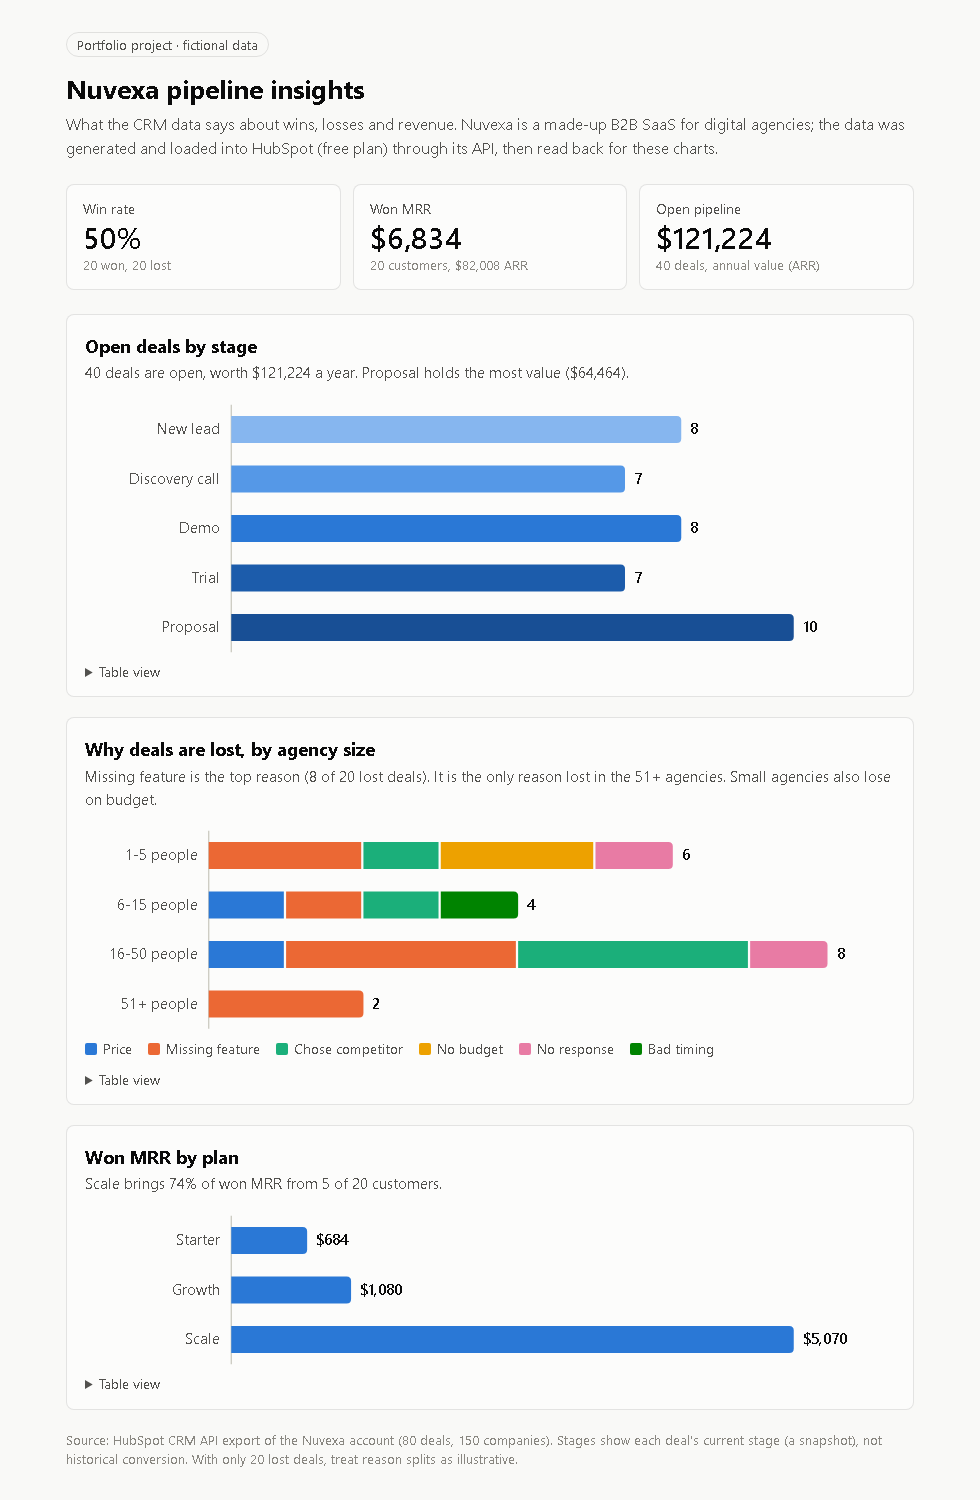
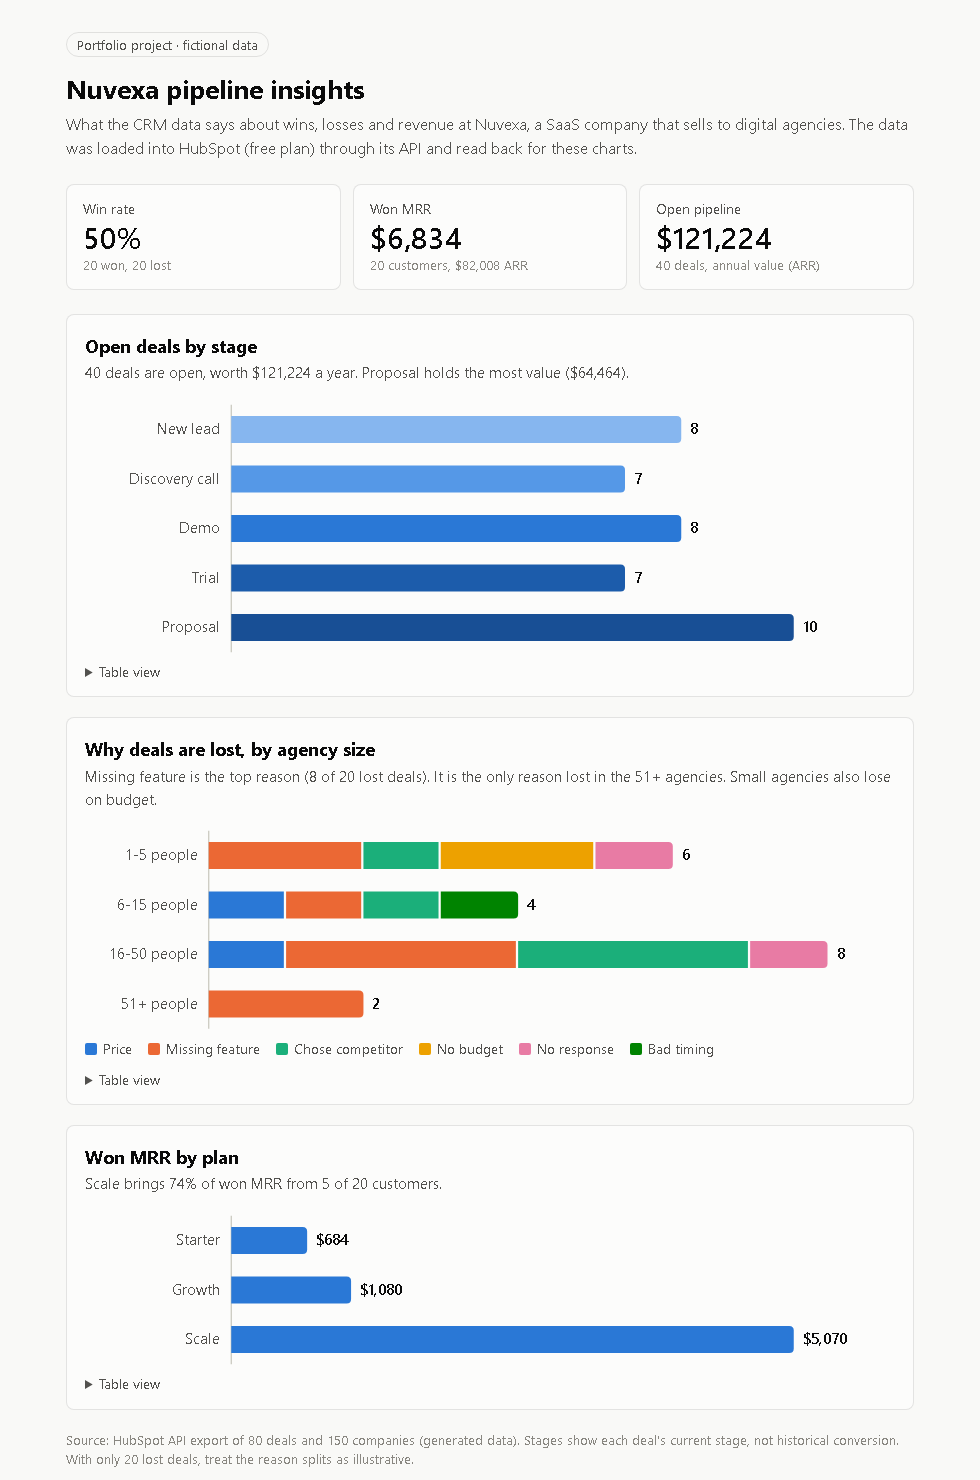
Add files via upload

diff --git a/dashboard/nuvexa-pipeline-insights.html b/dashboard/nuvexa-pipeline-insights.html
@@ -69,7 +69,7 @@
 <div class="wrap">
   <span class="tag">Portfolio project &middot; fictional data</span>
   <h1>Nuvexa pipeline insights</h1>
-  <p class="sub">What the CRM data says about wins, losses and revenue. Nuvexa is a made-up B2B SaaS for digital agencies; the data was generated and loaded into HubSpot (free plan) through its API, then read back for these charts.</p>
+  <p class="sub">What the CRM data says about wins, losses and revenue at Nuvexa, a SaaS company that sells to digital agencies. The data was loaded into HubSpot (free plan) through its API and read back for these charts.</p>
 
   <div class="tiles" id="tiles"></div>
 
@@ -95,7 +95,7 @@
     <details><summary>Table view</summary><div id="tb3"></div></details>
   </section>
 
-  <footer>Source: HubSpot CRM API export of the Nuvexa account (80 deals, 150 companies). Stages show each deal's current stage (a snapshot), not historical conversion. With only 20 lost deals, treat reason splits as illustrative.</footer>
+  <footer>Source: HubSpot API export of 80 deals and 150 companies (generated data). Stages show each deal's current stage, not historical conversion. With only 20 lost deals, treat the reason splits as illustrative.</footer>
 </div>
 <div id="tip" role="status"></div>
 

diff --git a/scripts/dashboard_template.html b/scripts/dashboard_template.html
@@ -69,7 +69,7 @@
 <div class="wrap">
   <span class="tag">Portfolio project &middot; fictional data</span>
   <h1>Nuvexa pipeline insights</h1>
-  <p class="sub">What the CRM data says about wins, losses and revenue. Nuvexa is a made-up B2B SaaS for digital agencies; the data was generated and loaded into HubSpot (free plan) through its API, then read back for these charts.</p>
+  <p class="sub">What the CRM data says about wins, losses and revenue at Nuvexa, a SaaS company that sells to digital agencies. The data was loaded into HubSpot (free plan) through its API and read back for these charts.</p>
 
   <div class="tiles" id="tiles"></div>
 
@@ -95,7 +95,7 @@
     <details><summary>Table view</summary><div id="tb3"></div></details>
   </section>
 
-  <footer>Source: HubSpot CRM API export of the Nuvexa account (80 deals, 150 companies). Stages show each deal's current stage (a snapshot), not historical conversion. With only 20 lost deals, treat reason splits as illustrative.</footer>
+  <footer>Source: HubSpot API export of 80 deals and 150 companies (generated data). Stages show each deal's current stage, not historical conversion. With only 20 lost deals, treat the reason splits as illustrative.</footer>
 </div>
 <div id="tip" role="status"></div>
 

diff --git a/README.md b/README.md
@@ -1,24 +1,21 @@
-# Nuvexa: a HubSpot CRM portfolio project (free plan)
+# Nuvexa: a HubSpot CRM portfolio project
 
-> **All data in this project is fictional.** Nuvexa is a made-up company. The 150 companies, 150 contacts and 80 deals were generated by rules and loaded into a HubSpot **free** account through its API. The goal is to show how I structure a CRM, not results from a real business.
+> The company and all the data in this project are fictional: 150 companies, 150 contacts and 80 deals, generated by rules and loaded into a free HubSpot account through its API.
 
-![HubSpot dashboard: deals created over time and deals by stage](images/hubspot-deals-dashboard.png)
+![HubSpot dashboard with deals created over time and deals by stage](images/hubspot-deals-dashboard.png)
 
-## The case in one minute
+## The scenario
 
-| | |
-|---|---|
-| **Company (fictional)** | Nuvexa, a B2B SaaS that sells work-management software (projects, team, deliverables) to small and mid-sized digital agencies. Monthly subscription, priced per user. |
-| **Problem** | The sales team cannot see where each agency is in the buying process, how much revenue is coming, why deals are lost, or which agencies to approach first. |
-| **Solution** | A HubSpot CRM, used by Nuvexa's own sales team, with a data model, one sales pipeline, segments and a dashboard, built **inside the limits of the free plan**. |
-| **My role** | Design the structure, generate coherent data, import it by API, build the views, and document what the plan could not do. |
+Nuvexa sells work-management software (projects, team, deliverables) to small and mid-sized digital agencies, on a monthly subscription priced per user. Its sales team needs to see where each agency is in the buying process, how much revenue is on the way, why deals get lost and which agencies to contact first.
 
-Note on the two systems: Nuvexa's **product** is project-management software for agencies (like Asana or Monday.com). **HubSpot is the CRM Nuvexa uses internally to sell it.** They are different tools.
+HubSpot is the CRM Nuvexa's sales team would use for that. The product itself is a different tool, closer to Asana or Monday.com.
+
+The project builds that CRM on HubSpot's free plan: a data model, one sales pipeline, imported data, segments, a dashboard, and an analysis for the parts the free plan does not cover.
 
 ## What I built
 
-### 1. Data model (9 of the 10 custom properties the free plan allows)
-The rule: **use a native HubSpot field before creating a new one.** Dropdowns for anything that will be grouped in a report, because free text does not group.
+### Data model
+Nine custom properties (the free plan allows ten), reusing native HubSpot fields wherever they existed. Anything meant for a report is a dropdown.
 
 | Object | Custom properties |
 |---|---|
@@ -26,80 +23,76 @@ The rule: **use a native HubSpot field before creating a new one.** Dropdowns fo
 | Company | Agency size segment, Agency clients count, Current tool, Agency specialty |
 | Deal | Plan, Number of users, Loss reason, MRR |
 
-### 2. One sales pipeline (the free plan allows one)
-I renamed the stages of the default pipeline instead of creating another one.
+### Sales pipeline
+The free plan allows one pipeline, so I renamed the stages of the default one:
 
 `New lead 10%` → `Discovery call 20%` → `Demo 40%` → `Trial 60%` → `Proposal 80%` → `Closed Won 100%` / `Closed Lost 0%`
 
-The percentage is the estimated chance of closing from that stage. Loss reasons: Price, Missing feature, Chose competitor, No budget, No response, Bad timing.
+The percentage is the estimated chance of closing from that stage. Loss reasons are Price, Missing feature, Chose competitor, No budget, No response and Bad timing.
 
-### 3. Coherent fictional data
-Generated by `scripts/generate_data.ps1` (fixed random seed, so it is reproducible).
+### Data
+`scripts/generate_data.ps1` creates the companies, contacts and deals with a fixed random seed, so the result is reproducible. Agency size sets the number of users, the number of users sets the plan (Starter up to 8 seats, Growth up to 25, Scale above), and seats × price ($12, $20, $30) gives the MRR. ARR is MRR × 12. Only lost deals have a loss reason, and closed deals close before today.
 
-- Agency size drives the number of users, users drive the plan (Starter up to 8, Growth up to 25, Scale above), and users × price per seat gives the MRR (`$12`, `$20`, `$30`). ARR is MRR × 12.
-- Only lost deals have a loss reason.
-- Closed deals close before today, open deals have a future expected close date.
-- 80 deals: 8 New lead, 7 Discovery call, 8 Demo, 7 Trial, 10 Proposal, 20 Closed Won, 20 Closed Lost.
+The 80 deals are split as 8 New lead, 7 Discovery call, 8 Demo, 7 Trial, 10 Proposal, 20 Closed Won and 20 Closed Lost.
 
-### 4. Import through the HubSpot API
-`scripts/import_hubspot.ps1` creates companies, then contacts, then deals, with the associations set at creation. It is resumable and does not create duplicates. I first imported a 3-deal sample, checked it by reading it back from the API, and only then imported the rest.
+### Import
+`scripts/import_hubspot.ps1` loads companies, then contacts, then deals through the HubSpot API, with the associations set when each record is created. It can be run again without creating duplicates. I imported 3 deals first and read them back from the API before loading the rest.
 
-The access token is read **only from the `HUBSPOT_TOKEN` environment variable**. It is never written to a file, code or log. The service key uses the minimum scopes (read/write for companies, contacts and deals, plus read-only schema).
+The token comes from the `HUBSPOT_TOKEN` environment variable and is never written to a file. The service key only has read and write access to companies, contacts and deals, plus read-only access to their properties.
 
-### 5. Segments and dashboard
-Four active segments (the plan allows 10): **Customers** (20), **Open opportunities** (40), **Lost deals contacts** (20) and **Spreadsheet agencies** (42 companies that still manage projects in spreadsheets, the best sales target). I also added HubSpot's ready-made deal reports to the dashboard and renamed them to English.
+### Segments and dashboard
+Four active segments (the limit is ten): Customers (20), Open opportunities (40), Lost deals contacts (20) and Spreadsheet agencies (42 companies that still manage projects in spreadsheets, the best sales target). I also added HubSpot's ready-made deal reports to the dashboard and renamed their titles to English.
 
-![HubSpot dashboard: contacts](images/hubspot-contacts-dashboard.png)
+![HubSpot dashboard with contacts](images/hubspot-contacts-dashboard.png)
 
-### 6. Analysis outside HubSpot
-On the free plan, custom reports are locked, so HubSpot cannot chart deals by `Loss reason` or by `Plan`. I read the data back through the API and built `dashboard/nuvexa-pipeline-insights.html` to answer those two questions. I treated this as a documented limit of the plan, not something to work around.
+### Analysis outside HubSpot
+Custom reports are locked on the free plan, so HubSpot cannot chart deals by loss reason or by plan. `dashboard/nuvexa-pipeline-insights.html` uses the data read back from the API to chart both.
 
 ![Pipeline insights page](images/pipeline-insights.png)
 
-## What the data shows (illustrative)
-- **Win rate 50%** (20 won, 20 lost).
-- **Won MRR $6,834** from 20 customers ($82,008 ARR).
-- **Open pipeline $121,224** a year across 40 deals; Proposal holds the most value.
-- **Top loss reason: Missing feature** (8 of 20), and the only reason in agencies with 51+ people.
-- **Revenue is concentrated:** the Scale plan brings 74% of won MRR from 5 of 20 customers.
+## What the data shows
 
-With only 20 lost deals and fictional data, these numbers show how the analysis would work, not a conclusion about a market.
+- Win rate of 50% (20 won, 20 lost).
+- Won MRR of $6,834 from 20 customers, which is $82,008 in ARR.
+- Open pipeline of $121,224 a year across 40 deals, with Proposal holding the most value.
+- Missing feature is the top loss reason (8 of 20), and the only one in agencies with 51 or more people.
+- The Scale plan brings 74% of the won MRR from 5 of the 20 customers.
 
-## What went wrong, and what I learned
-| What happened | Lesson |
-|---|---|
-| A field named "Job function" already existed, but it was free text created by an ad integration. | Check a field's **type and origin** before assuming it fits. |
-| The native "Closed Lost Reason" is free text, not a list. | Free text does not chart. I created a dropdown. |
-| Native MRR and ARR are calculated and read-only. | Check a native field is **writable** before planning on it. I created an `MRR` property. |
-| Private apps no longer exist on the account. | The replacement is a **service key**. Platforms change, so check current docs. |
-| The API returned `401 INVALID_CLAIMS` because I had saved the wrong text as the token. | A 401 is a **credential** problem; a 403 would be missing scope. Debug by eliminating causes in order. |
-| A segment showed 40 contacts when I expected 17. | HubSpot **automatically moves contacts with an open deal to Opportunity**, regardless of stage. Always validate a segment size against the source. |
-| The "create report from scratch" button is locked on the free plan. | Document the limit and deliver the analysis another way. |
+## Things that did not go as expected
 
-## Free-plan limits I worked within
-10 custom properties, 1 deal pipeline, ready-made reports only (no custom report builder), 10 active segments, 2 users and 1,000 contacts. These came from third-party sources and my own testing, so verify them against HubSpot's current pricing page.
+- A field called "Job function" already existed, but it was a free-text field from an ads integration, so I created my own dropdown, "Agency role".
+- HubSpot's "Closed Lost Reason" is free text, which cannot be grouped in a chart, so I created a "Loss reason" dropdown.
+- HubSpot's MRR and ARR properties are calculated and cannot be written, so I created an "MRR" property.
+- Private apps no longer exist on the account, so the import uses a service key.
+- The API first answered with a 401 error because I had saved the wrong text as the token. A missing permission would have returned a 403, so the problem had to be the credential itself.
+- One segment showed 40 contacts when I expected 17. HubSpot automatically moves any contact with an open deal to Opportunity, whatever the stage.
+- The option to build a report from scratch is locked on the free plan, which is why the last chart set lives outside HubSpot.
+
+## Limitations
+
+- The free plan limits I worked with came from third-party sources and my own tests: 10 custom properties, 1 pipeline, no custom reports, 10 active segments, 2 users and 1,000 contacts. Check HubSpot's pricing page for the current numbers.
+- Contacts were created on the import date, so "contacts added over time" is a single spike.
+- The charts show each deal's current stage, not historical conversion.
+- There is no automation, because of the free plan.
+- All data is fictional and only 20 deals were lost, so the figures show how the analysis works, not a conclusion about a market.
 
 ## Repository
+
 ```
 data/        companies.csv, contacts.csv, deals.csv, hubspot_deals_export.json
 scripts/     generate_data.ps1, import_hubspot.ps1, dashboard_template.html
-dashboard/   nuvexa-pipeline-insights.html (open in a browser)
+dashboard/   nuvexa-pipeline-insights.html (open it in a browser)
 images/      screenshots used above
 ```
 
 ## Run it yourself
-1. Create a free HubSpot account and the custom properties listed above (the property names must match: `agency_role`, `agency_size_segment`, `agency_clients_count`, `current_tool`, `agency_specialty`, `plan`, `number_of_users`, `loss_reason`, `mrr`).
-2. Create a **service key** with the scopes listed in section 4 and store it in an environment variable. Do not paste it into a file.
-3. Generate data: `powershell -ExecutionPolicy Bypass -File scripts/generate_data.ps1`
+
+1. Create a free HubSpot account and the custom properties above. The internal names must match: `agency_role`, `agency_size_segment`, `agency_clients_count`, `current_tool`, `agency_specialty`, `plan`, `number_of_users`, `loss_reason` and `mrr`.
+2. Create a service key with read/write on companies, contacts and deals, plus read-only access to their properties, and store it in the `HUBSPOT_TOKEN` environment variable.
+3. Generate the data: `powershell -ExecutionPolicy Bypass -File scripts/generate_data.ps1`
 4. Import a sample first, then everything: `scripts/import_hubspot.ps1 -Mode Sample`, then `-Mode Full`.
 
-Requires Windows PowerShell 5.1. The import script saves created IDs in `data/import_state.json` (listed in `.gitignore`).
-
-## Honest limits of this project
-- Fictional data, generated by rules, with a small sample.
-- Contacts were created on the import date, so "contacts added over time" shows one spike.
-- Stages in the charts are each deal's **current** stage (a snapshot), not historical conversion.
-- Built on a free plan, so there is no automation or custom reporting.
+It needs Windows PowerShell 5.1. The import script saves the IDs it creates in `data/import_state.json`, which is listed in `.gitignore`.
 
 ---
 *Author: Alberto Stephan · [LinkedIn](https://www.linkedin.com/in/albertostephan)*
